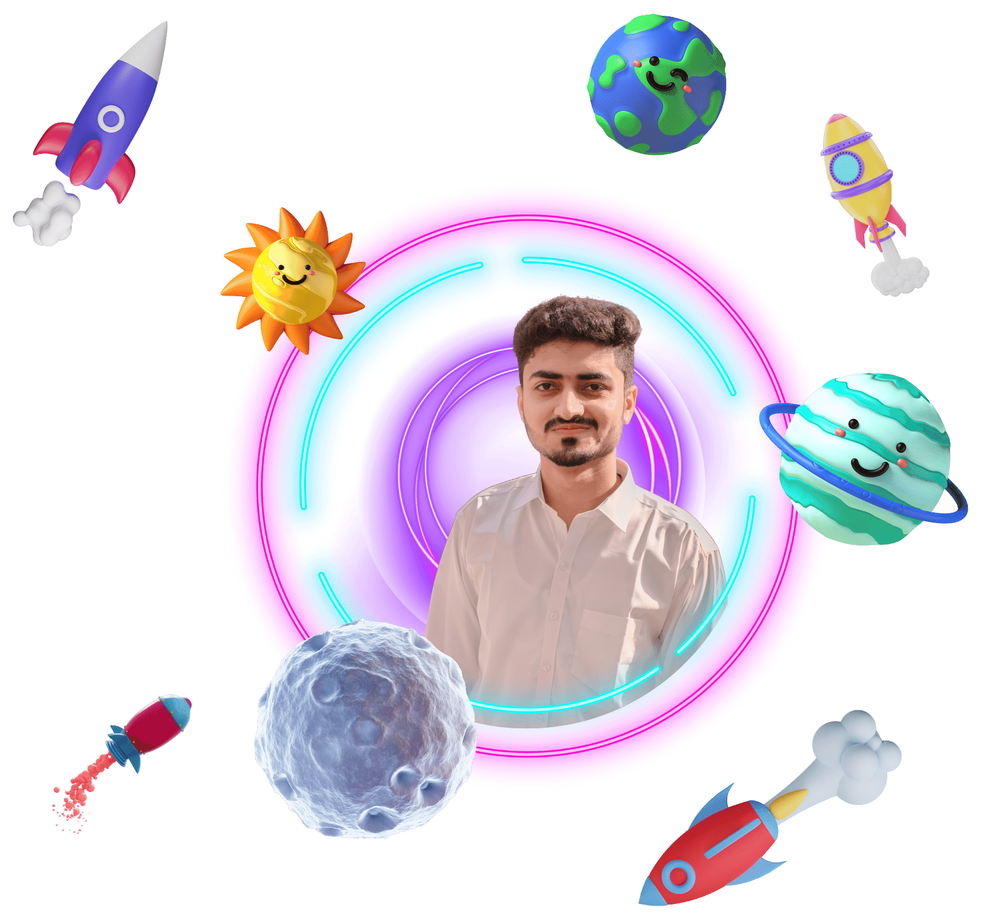
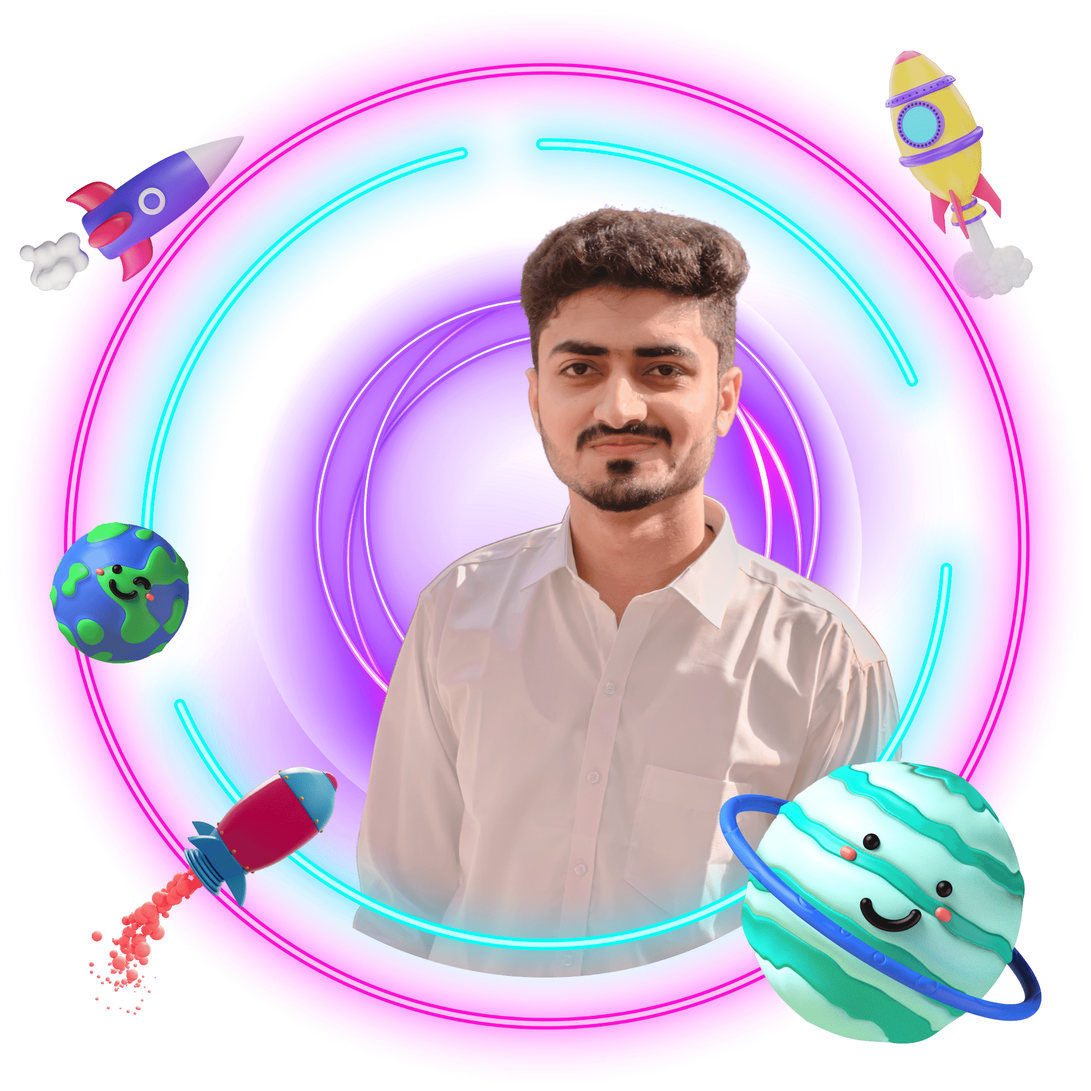
image update

diff --git a/flutter_service_worker.js b/flutter_service_worker.js
@@ -4,8 +4,8 @@ const TEMP = 'flutter-temp-cache';
 const CACHE_NAME = 'flutter-app-cache';
 const RESOURCES = {
   "version.json": "ae56372b22a2b4c0bf915692893749b6",
-"index.html": "f350eac9027c788de4ba398fdf18d1e6",
-"/": "f350eac9027c788de4ba398fdf18d1e6",
+"index.html": "035cdd0a23519bb9d1429fc2970b1347",
+"/": "035cdd0a23519bb9d1429fc2970b1347",
 "CNAME": "be1efa8c544a5bfbbcde1085904b25b0",
 "loader.css": "3ed0540af717cd56f01a37a08f714759",
 "main.dart.js": "656d23370f68d35d165ef85c7fc93d75",
@@ -15,7 +15,7 @@ const RESOURCES = {
 "icons/Icon-192.png": "ac9a721a12bbc803b44f645561ecb1e1",
 "icons/Icon-512.png": "96e752610906ba2a93c65f8abe1645f1",
 "manifest.json": "f72b1fb8e2ea7901f25ad4e33e0f71f2",
-".git/ORIG_HEAD": "6f8cb0c0ccce5b6568143b374e987521",
+".git/ORIG_HEAD": "7f491211c79606da4f58b9d9ab7c0657",
 ".git/config": "642d2d80a77e462707f6dcf4dc64d2eb",
 ".git/objects/50/ef380e89c18faa5f9ea87aacdb9ddc11c9bc21": "fcc972dd16c440f6afa7464bf0d4a682",
 ".git/objects/9e/99123ea2555962c4e9b43f430d06a4b21a7353": "ec7ba2bb08a6c5da42e52f516afae4b3",
@@ -25,41 +25,54 @@ const RESOURCES = {
 ".git/objects/02/132743584d85fbd4874757aa95fa8dcce2196f": "a3a48d54d1a6fb783744476509807fcf",
 ".git/objects/ad/c6914889f48ca9fbcb4bf3aa9e23c1c7280b5b": "5a43f18f4d274f3b52c278c1477fa17d",
 ".git/objects/be/93021d70a115354f5f015d064c4663acca305e": "96a6dd7afa27429fb862f178afd00e0d",
+".git/objects/a2/cefa522151c2b0b4e2efc848dd3620f7a42c07": "9d87ba395931ea1d2f26b83f265f8e08",
+".git/objects/d1/8da418844d4181bad4b1fb2ab7bde55356fa75": "ddd287aa99e9db9d0eaf03e1fa8c079d",
 ".git/objects/bc/6075fe98ecee193c9790d4c50041157b971ce2": "7ae79019eb2f8c70af31fa65dab529ab",
 ".git/objects/e5/ab31cf394c70af7fd0f1198686647b836dedb2": "6f830f0e2f80989c0c2343f4c5ad7385",
 ".git/objects/eb/2a2fe796cb6f5106a5f29ce8bf141691ddabd5": "2f312a8d4133c4ec72b9e85e5e6cfb1a",
+".git/objects/20/a4637218027ef1246aff08e502ab7ded8b8bdc": "5b430c740a2347ab14010ae797cf3cba",
 ".git/objects/pack/pack-d2c16ce853ae494e0f371f89bdad5ec13083b7af.pack": "42ac5a29d714612fc7b95762f806cdc3",
 ".git/objects/pack/pack-d2c16ce853ae494e0f371f89bdad5ec13083b7af.idx": "f9e647c725ebe13ef61627ff3f21cbd5",
 ".git/objects/42/3ad5234f52fd15b9c92926bc1cdba8c93dd7ca": "24e617e9944691b71894eeb6940edb05",
 ".git/objects/28/a840f68cd9aaa43da6dc68e91a08fec7fdf43c": "d382e647936045bf47dfbd754e6dd01d",
 ".git/objects/17/f60f6ac0dc188c21e0627bcfccd26f65a9a006": "14986b856e320f7ab573f7e6c9cab661",
 ".git/objects/7b/6806d705bf26d6b97bda73fca253b818d1b980": "da26c3f749051da3119cfe841269aa4a",
+".git/objects/4c/55740b762a562ab2dab8c84f84fa6954f537b7": "fcf762fc77f2cccdd3e89dc2c6d12fdd",
 ".git/objects/21/c4572ed6874d5d0e48878cea32b9f6344f5506": "cfb3050ea5647e4db248f8c3555848c9",
+".git/objects/4d/49a8a1eb40c976a1d65977282d3685e444e2bd": "ec532229dc72092cd97f18cc1d8b0d12",
 ".git/objects/43/6053b9da2c77fc503ccee0a072b2c427fd6486": "558638b24ed38727e560dd16ec47fc24",
 ".git/objects/9f/920c3a269db487e3977c4b7538da178921379f": "7f758a5d1af4e748245053361aaf6f69",
+".git/objects/6b/f1f2cc7ceffa2fe61945eb76c1b07e8616ac78": "408d0a7712c73de7886e851ebf084871",
 ".git/objects/07/9ba3e50d113f75505148f9c86676c23df174b5": "004b5ea06a5188d69268c341bc920ea2",
 ".git/objects/53/6e96603f9ac6670e049db7754224eee3b38938": "7bf9830f17f3a181be5ab57253d752a5",
 ".git/objects/5b/26f0e1149f62d36701fe4cf6e7c4c991b150fc": "ae8e5570951bfeaddfdbc660bcd44598",
 ".git/objects/52/87fbd65f50f0c0213c4882f8313a9f074c15e7": "b71071f24b3a3661211e34e24a801839",
 ".git/objects/a7/fa3a9b55ee9dac9c6524738b41616cd290e28d": "7dee9b1a2ca32b035c7775f403d6f51a",
+".git/objects/dc/ecfc2929aa7cdcf72a8dcdf3975aca8bcd24d9": "42dfa5c70f45c5284c91584b203e72ab",
 ".git/objects/b6/6ed2ac727d82ddb5c3fe1f322c778fb29675be": "0a190d768d39307dad20b5a0e1f14477",
 ".git/objects/b7/2867b37681284deba4158f6d439cbff829c34f": "5462e7f9e4f270f6bf882d6c396cdf3a",
 ".git/objects/ef/89f6b9c42908a33b54a545bac384064ad8b211": "cc23795c4a2a247e917c2f9d8f2fa0f0",
+".git/objects/c4/e6f9df87fc20fac5e603071afa6a65e67db50a": "49652762dd1c32b2ec9f83d197008114",
+".git/objects/cd/5c7da19ebdf09b2f91d1c3ec4f561d54e58aa1": "5dc05a7919c6085e78b5370c04dbd931",
 ".git/objects/cd/5665054c78ea12acc7188455da1ebb00be7643": "9b7d791695945fc34bf1e3b96f3fa330",
+".git/objects/f6/d09d19784e658e824e00bab0c1224d65af3d46": "92c42e0f9b5dc9930480a657f19601ab",
 ".git/objects/cb/1ebae0ed2e8afc136ab448ed2f4459f04c5985": "252f7e1af24de4c100edbc3a8b8a7a80",
 ".git/objects/79/42047e3a32d6027dde9b0faca7a7157c232375": "af88adf75260f7437d1b663f248e0e01",
 ".git/objects/77/8144c7f8261a2495656a3c9857c5481856cc4d": "2edefbe93cf23abf4858ea8a0dadce93",
 ".git/objects/84/515c3904d043dc7dbbc2b1fb277e37c559922d": "aa44f9c5eb4f185ba53c2383a01ae493",
+".git/objects/4a/a5773c1f6152c42fc6dabfbe5c6ddd5fb765dd": "1f40372dad0883f3070d4fa3eb466254",
+".git/objects/24/7e01c76d21b722688595b828cfa2750c57aeed": "9a3fe13e20d8c6b2c476d4b6aec813d5",
 ".git/objects/71/a3b3e2e56b6969e51318c71f4fefe41e008dcc": "4c059ff18eb01c26a4921e105922a64b",
 ".git/objects/71/6c50832cbe656c0f458a25c195767648d650cc": "f9b0c18604ba1d8da037302b024d605e",
+".git/objects/8b/40bf51c3d159e38cf715bd47b820a30e72a125": "45258b86d49c7540ee0769524f9dd873",
 ".git/objects/22/43cd8aee018839a5fd176e6f0bbd5f0a85c60c": "1f52dcfc9e267f52e856ac0fc44ffbc1",
 ".git/objects/22/2a15a36aaa3bc369b34ca5b102536c442285a2": "423cf305d13a5ced0cd1b7c7f34e1e51",
 ".git/HEAD": "cf7dd3ce51958c5f13fece957cc417fb",
 ".git/info/exclude": "036208b4a1ab4a235d75c181e685e5a3",
-".git/logs/HEAD": "e04c1ff8292ff1f0b8899ed799b1833b",
-".git/logs/refs/heads/main": "e04c1ff8292ff1f0b8899ed799b1833b",
+".git/logs/HEAD": "750c612985e6a42b6ef88212bfbb57a0",
+".git/logs/refs/heads/main": "750c612985e6a42b6ef88212bfbb57a0",
 ".git/logs/refs/remotes/origin/HEAD": "0a7967f842e7cc2af1ebe522997adf89",
-".git/logs/refs/remotes/origin/main": "925babe97403f3b51b2fb1f99451e66f",
+".git/logs/refs/remotes/origin/main": "e00c7ae207a9c74f6820d5f8f7366921",
 ".git/description": "a0a7c3fff21f2aea3cfa1d0316dd816c",
 ".git/hooks/commit-msg.sample": "579a3c1e12a1e74a98169175fb913012",
 ".git/hooks/pre-rebase.sample": "56e45f2bcbc8226d2b4200f7c46371bf",
@@ -74,13 +87,13 @@ const RESOURCES = {
 ".git/hooks/pre-push.sample": "2c642152299a94e05ea26eae11993b13",
 ".git/hooks/update.sample": "647ae13c682f7827c22f5fc08a03674e",
 ".git/hooks/push-to-checkout.sample": "c7ab00c7784efeadad3ae9b228d4b4db",
-".git/refs/heads/main": "6f8cb0c0ccce5b6568143b374e987521",
+".git/refs/heads/main": "7f491211c79606da4f58b9d9ab7c0657",
 ".git/refs/remotes/origin/HEAD": "98b16e0b650190870f1b40bc8f4aec4e",
-".git/refs/remotes/origin/main": "6f8cb0c0ccce5b6568143b374e987521",
-".git/index": "92c2b08f252ca4358cd548adcffcd43b",
+".git/refs/remotes/origin/main": "7f491211c79606da4f58b9d9ab7c0657",
+".git/index": "af559f79b3289a2fbc0912d5c7fd920a",
 ".git/packed-refs": "e322c4cc250dbe23663a03c300303795",
-".git/COMMIT_EDITMSG": "5bccd6725a907182ec3ce67bdf4d47c1",
-".git/FETCH_HEAD": "2f5ee3acf899c470c9ab9ce8c5b06478",
+".git/COMMIT_EDITMSG": "46a8bb51d4520c54cad6bd31f6d22e07",
+".git/FETCH_HEAD": "41a2e9692861db20d25e41bfb6c7664b",
 "assets/AssetManifest.json": "9fff552766538d7229ecbf20edc21ba0",
 "assets/NOTICES": "127195888ac8f0e265c54e5fe257c563",
 "assets/FontManifest.json": "07488861e82cd8684be0da1a38dbb65e",
@@ -111,7 +124,7 @@ const RESOURCES = {
 "assets/fonts/Lato-Light.ttf": "2fe27d9d10cdfccb1baef28a45d5ba90",
 "assets/fonts/MaterialIcons-Regular.otf": "4e6447691c9509f7acdbf8a931a85ca1",
 "assets/fonts/Oswald-Light.ttf": "4be970a1b24aa834afff4b16842c8981",
-"assets/assets/rashid.png": "c8efeae6493f0ae506d6b56302a156f9",
+"assets/assets/rashid.png": "da298c3627d34607f7403ef53e1b2e62",
 "assets/assets/brand3.png": "c0915a84744f3481a2105c5aea6727e0",
 "assets/assets/anim/splash_anim.json": "497c27dfd7bae0375decc1aee9428735",
 "assets/assets/design.png": "6aaec412d8837ac9a83f03f453877606",

diff --git a/index.html b/index.html
@@ -41,7 +41,7 @@
   <script>
     if ('serviceWorker' in navigator) {
       window.addEventListener('flutter-first-frame', function () {
-        navigator.serviceWorker.register('flutter_service_worker.js?v=1603853480');
+        navigator.serviceWorker.register('flutter_service_worker.js?v=2692069885');
       });
     }
   </script>
